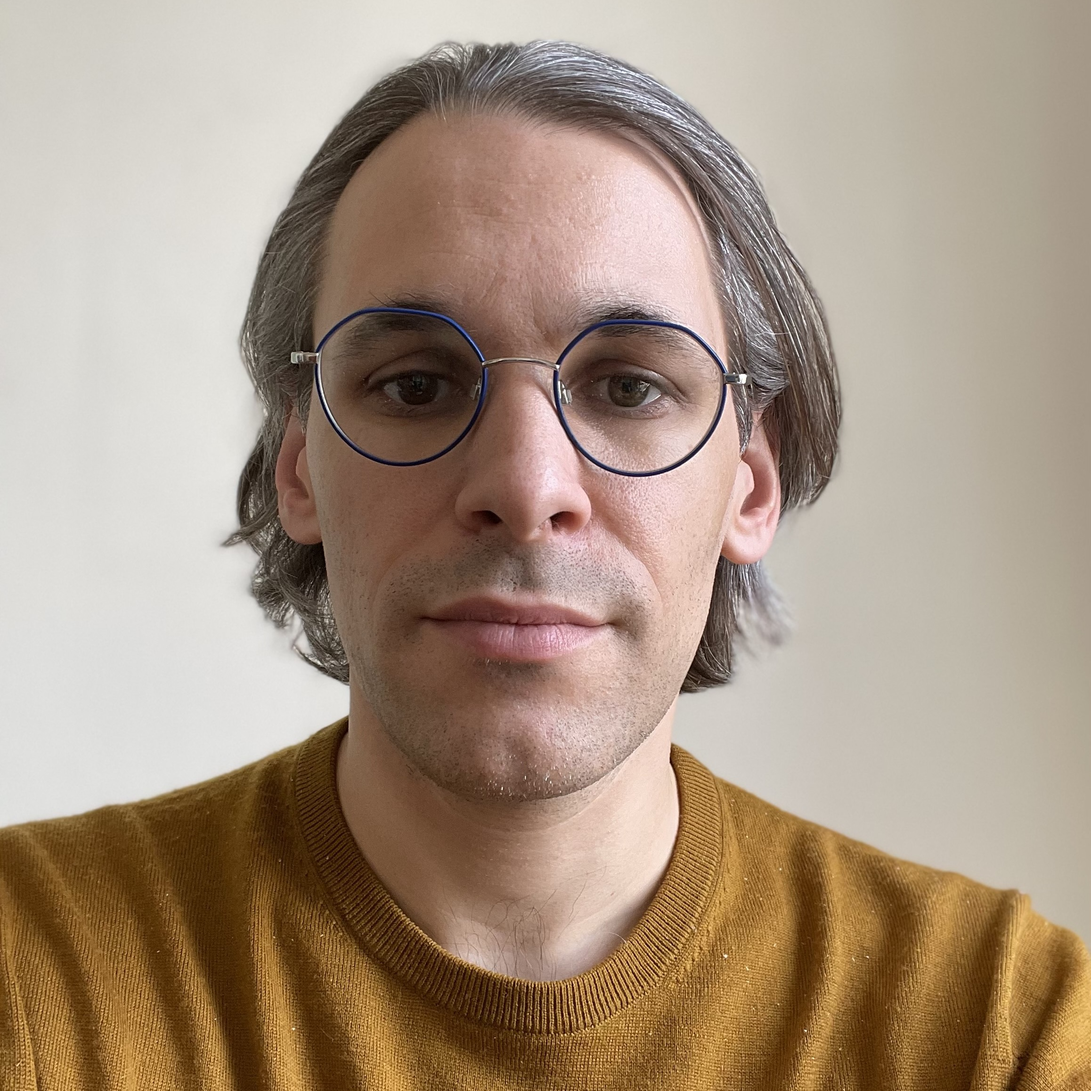
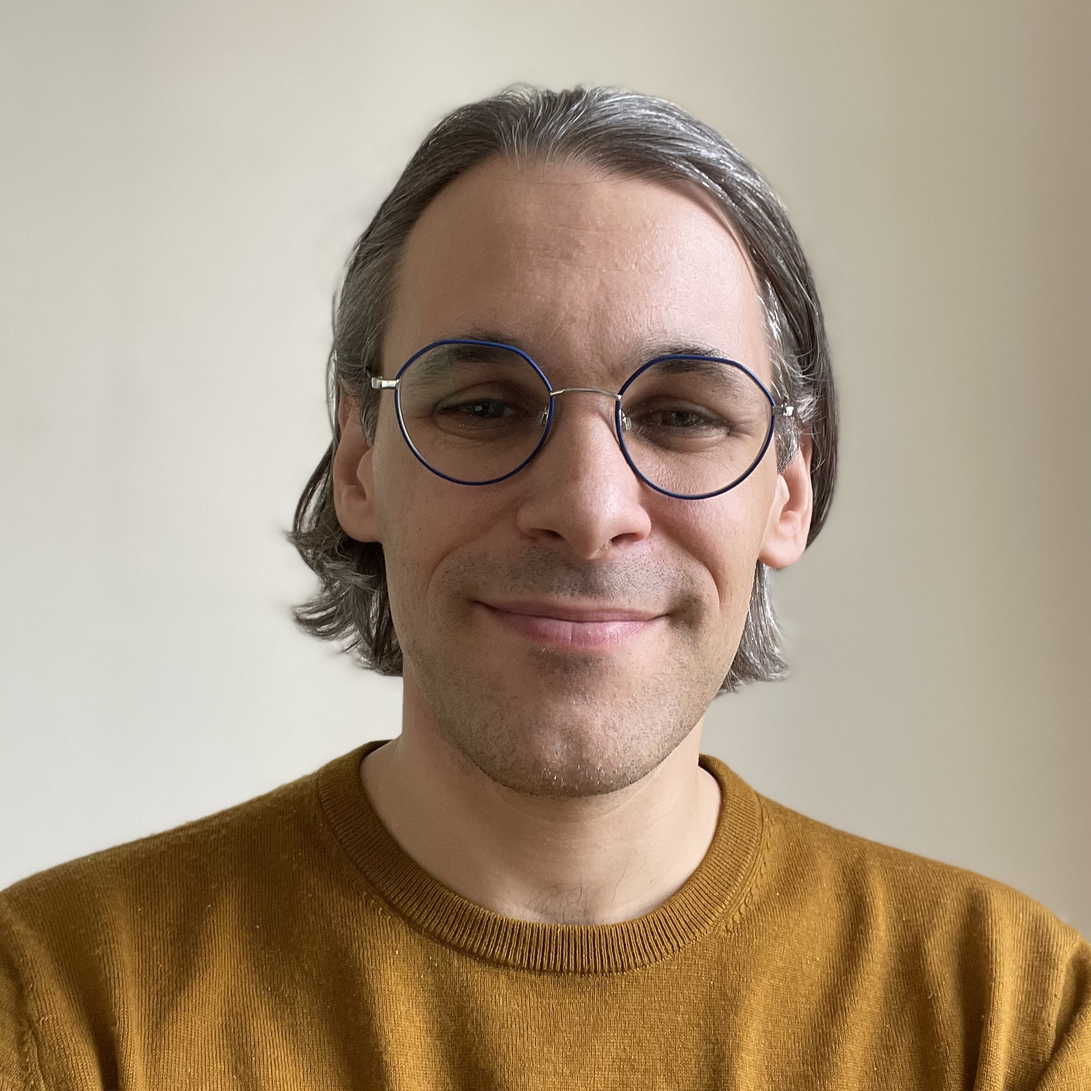
added new profile pic

diff --git a/index.html b/index.html
@@ -49,7 +49,7 @@
                                 Hello! I'm Tomek.
                             </p>
                             <p>
-                                I am currently a student at Columbia Engineering's Coding Boot Camp. I am looking forward to leveraging my years of experience in the Natural Food and Beverage, and Performing Arts industries, to create products that provide functionally and elegant solutions to core tasks. 
+                                I am currently a student at Columbia Engineering's Coding Boot Camp. I am looking forward to leveraging my years of experience in the Natural Food and Beverage, and Performing Arts industries, to create products that provide functionally and elegant solutions to essential tasks. 
                             </p>
                             <p>
                                 For now, I am simply working on building up my toolkit. I'll be adding links to projects as a progress, so please come back soon and see what's new!
